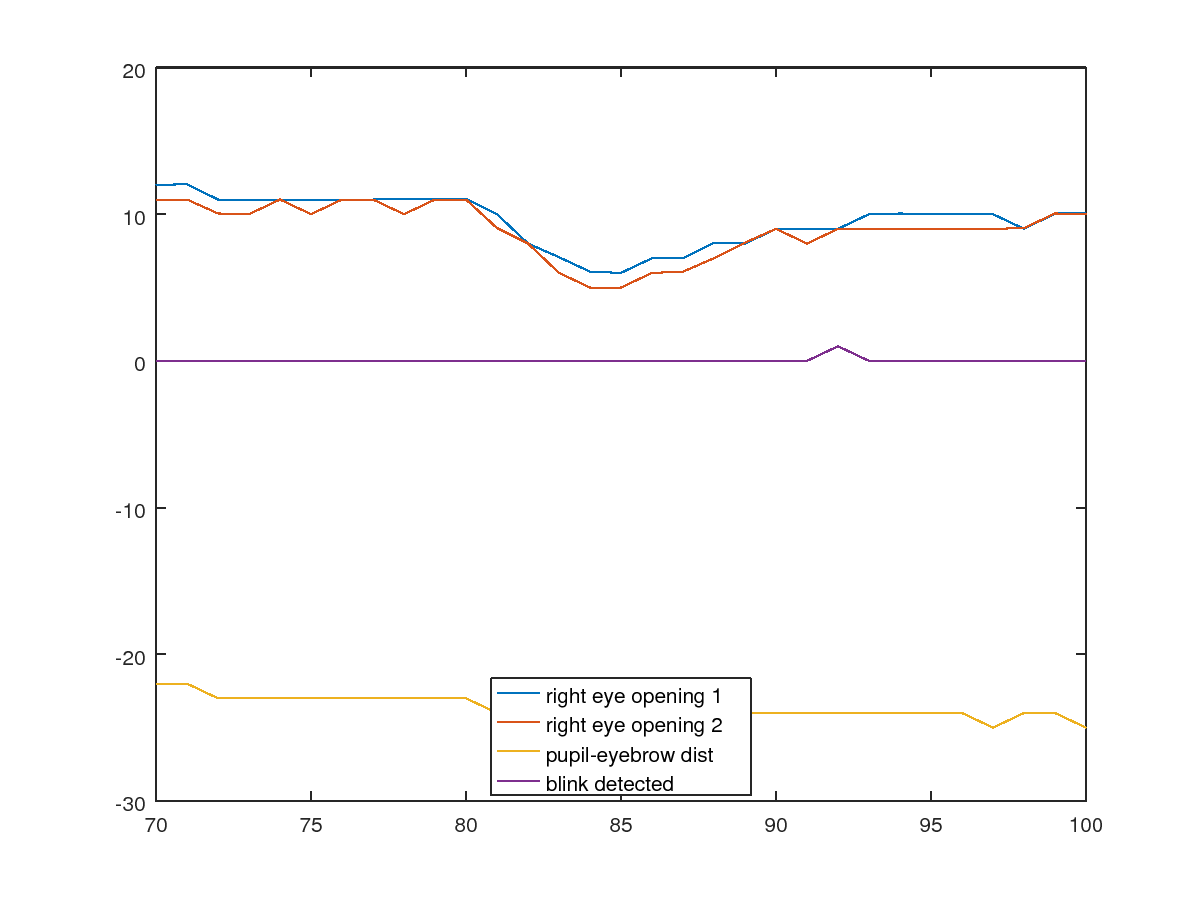
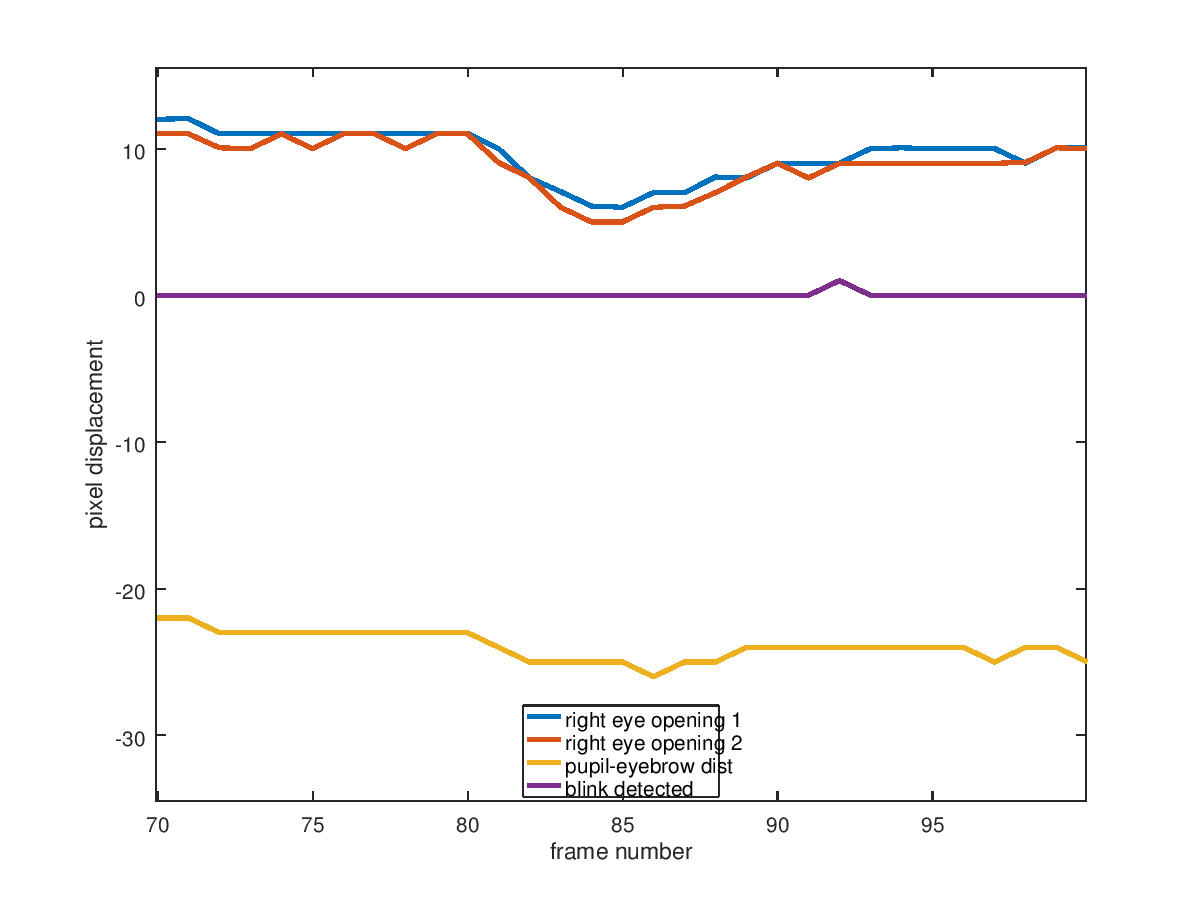
* updates

diff --git a/paper/proposal.tex b/paper/proposal.tex
@@ -194,7 +194,7 @@ By tracking certain feature points on a face, we can reconstruct the 3D geometry
 Face feature tracking is noisy and small invidual variates in even one facial feature can lead to significant changes in the calculated gaze direction. We can see how noisy this computation is for gaze direction in figure \ref{gazegraph}. We will discuss better techniques in future work.
 \begin{figure}%
     \centering
-    \resizebox{!}{90mm}{\includegraphics{headangle1.png}}
+    \resizebox{!}{90mm}{\includegraphics{headangle2a.png}}
     \caption{Gaze direction of video sequnce.}
     \label{gazegraph}%
 \end{figure}
